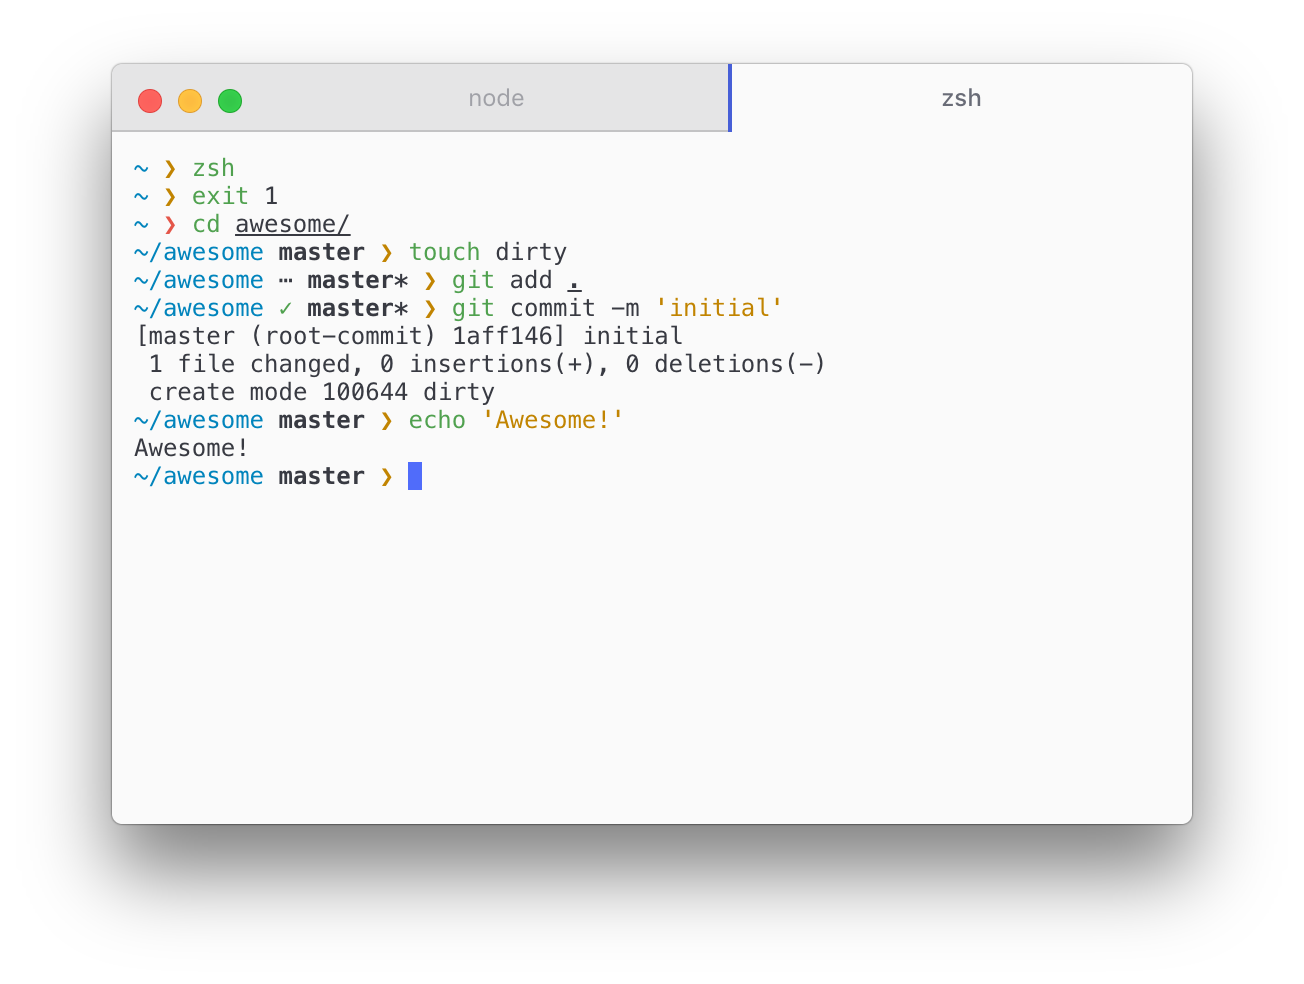
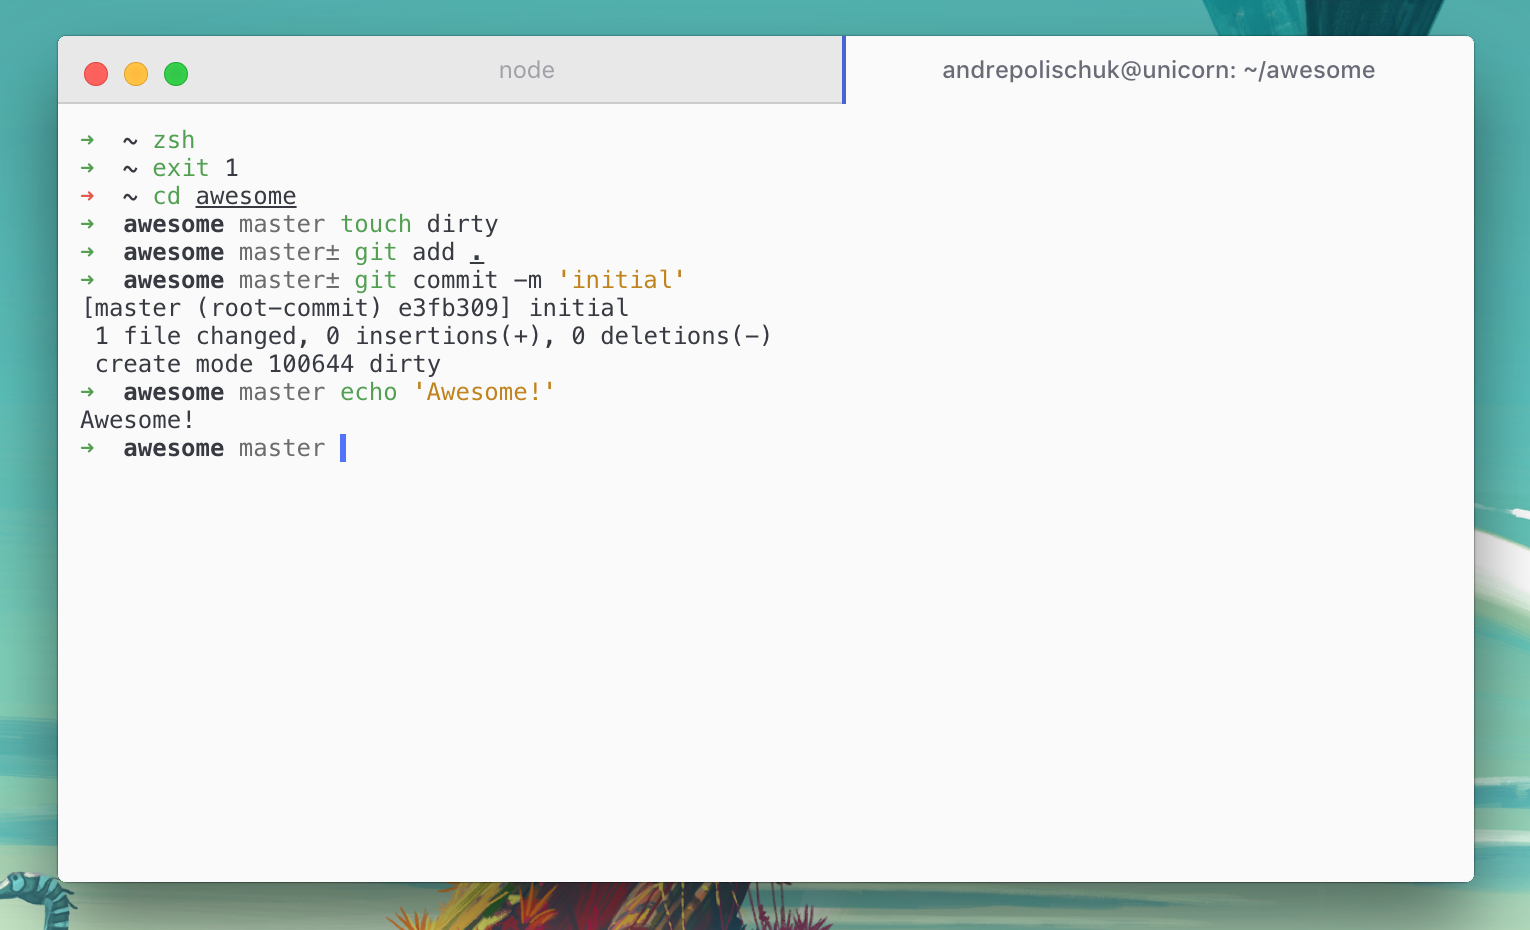
Update screenshots

Changed region(s): [[0.0, 0.0, 1.0, 1.0], [0.3067, 0.4677, 0.3374, 0.4989]]

diff --git a/README.md b/README.md
@@ -16,6 +16,8 @@ plugins: [
 
 ## Vibrancy
 
+![](screenshot-vibrancy.png)
+
 Add follows line to config for enable the light vibrancy effect:
 
 ```js
